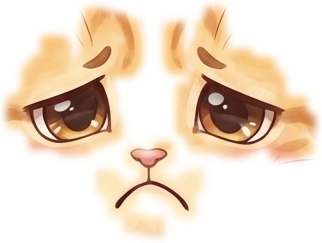
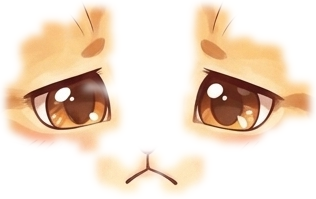
고양이 졸기 무표정 입, 시무룩 덜 억울하게

diff --git a/cat2d.js b/cat2d.js
@@ -1,13 +1,13 @@
 // ===== 2D 고양이 아이돌 (그림을 휘고 늘리는 메시 애니메이션, PixiJS) =====
 // 부위 그림(몸통·팔·꼬리·표정)을 격자 모양 메시로 붙이고, 꼭짓점을 움직여서 이음새 없이 휘게 만듦.
-const ART = new URL('art/cat/', import.meta.url).href, VER = '?v=3';   // 고치면 숫자 올리기 (브라우저 저장본 대신 새 파일)
+const ART = new URL('art/cat/', import.meta.url).href, VER = '?v=4';   // 고치면 숫자 올리기 (브라우저 저장본 대신 새 파일)
 const sstep = (a, b, x) => { const t = Math.max(0, Math.min(1, (x - a) / (b - a))); return t * t * (3 - 2 * t); };
 const rot = (x, y, cx, cy, a) => { const c = Math.cos(a), s = Math.sin(a); return [cx + (x - cx) * c - (y - cy) * s, cy + (x - cx) * s + (y - cy) * c]; };
 
 export async function loadCat(PIXI, name) {
   const info = await (await fetch(ART + name + '.json' + VER)).json();
   const tex = {};
-  for (const k of ['body', 'armL', 'armR', 'tail', 'face-blink', 'face-sing', 'face-joy', 'face-sad']) {
+  for (const k of ['body', 'armL', 'armR', 'tail', 'face-blink', 'face-sing', 'face-joy', 'face-sad', 'face-sleep']) {
     if (k !== 'body' && !info.parts[k]) continue;
     tex[k] = await PIXI.Assets.load(ART + `${name}-${k}.png` + VER);
   }
@@ -36,7 +36,7 @@ export function makeCat(PIXI, data, opt = {}) {
   const armL = P.armL && plane('armL', 10, 10, P.armL.x, P.armL.y, 'armL');
   const armR = P.armR && plane('armR', 10, 10, P.armR.x, P.armR.y, 'armR');
   const faces = {};
-  for (const k of ['face-blink', 'face-sing', 'face-joy', 'face-sad']) if (P[k]) { faces[k] = plane(k, 8, 6, P[k].x, P[k].y, 'face'); faces[k].p.alpha = 0; }
+  for (const k of ['face-blink', 'face-sing', 'face-joy', 'face-sad', 'face-sleep']) if (P[k]) { faces[k] = plane(k, 8, 6, P[k].x, P[k].y, 'face'); faces[k].p.alpha = 0; }
   // 그리는 순서: 꼬리 → 몸 → 표정 → 팔
   [tail, body, ...Object.values(faces), armL, armR].forEach(o => o && root.addChild(o.p));
   const zz = [0, 1, 2].map(i => { const z = new PIXI.Text('Z', { fontFamily: 'Jua, sans-serif', fontSize: 70 + i * 22, fill: 0xb9a6ff, stroke: 0xffffff, strokeThickness: 10, fontWeight: '700' }); z.anchor.set(.5); z.alpha = 0; root.addChild(z); return z; });
@@ -62,7 +62,7 @@ export function makeCat(PIXI, data, opt = {}) {
       q.armR = -.55 + s(k * 2.2) * .35; q.armL = -.25; q.head = -.07 + s(k * .5) * .03; q.sway = -.02; q.tail = .15; q.tailSpeed = 2.5;
       q.face = s(k * .7) > .3 ? 'face-joy' : null;
     } else if (m === 'sleep') {
-      q.head = .12 + s(t * 1.1) * .05; q.breathe = s(t * 1.1) * .03; q.armL = -.4; q.armR = .4; q.tail = -.15; q.tailSpeed = .6; q.tailWave = .04; q.face = 'face-blink';
+      q.head = .12 + s(t * 1.1) * .05; q.breathe = s(t * 1.1) * .03; q.armL = -.4; q.armR = .4; q.tail = -.15; q.tailSpeed = .6; q.tailWave = .04; q.face = P['face-sleep'] ? 'face-sleep' : 'face-blink';
     } else if (m === 'sad') {
       q.head = .14 + s(t * .6) * .02; q.armL = -.45; q.armR = .45; q.tail = -.5; q.tailSpeed = .5; q.tailWave = .03; q.squash = .02;
       q.earL = -.55 + s(t * .8) * .03; q.earR = .55 - s(t * .8) * .03; q.droop = 1; q.face = 'face-sad';

diff --git a/cat-live.html b/cat-live.html
@@ -25,7 +25,7 @@ p{color:#8a6f7a;font-size:13px;line-height:1.5}
 <p>그림 AI로 그린 고양이를 몸통·팔·꼬리·표정으로 나누고, 그림을 <b>휘고 늘리는</b> 방식(Live2D·Spine과 같은 원리)으로 움직여요. 팔과 꼬리는 붙은 곳은 고정되고 끝으로 갈수록 휘어서 이음새가 없어요. 머리는 목 부분이 부드럽게 늘어나며 기울고, 숨 쉴 때 몸이 살짝 부풀어요.</p>
 </main>
 <script type="module">
-import { loadCat, makeCat } from './cat2d.js?v=3';
+import { loadCat, makeCat } from './cat2d.js?v=4';
 const MODES = { idle: '대기', dance: '춤', cheer: '만세(1위)', wave: '손 흔들기', sleep: '졸기', sad: '시무룩' };
 const cv = document.getElementById('st');
 const app = new PIXI.Application({ view: cv, backgroundAlpha: 0, antialias: true, width: cv.clientWidth, height: cv.clientHeight, resolution: Math.min(2, devicePixelRatio || 1), autoDensity: true });
